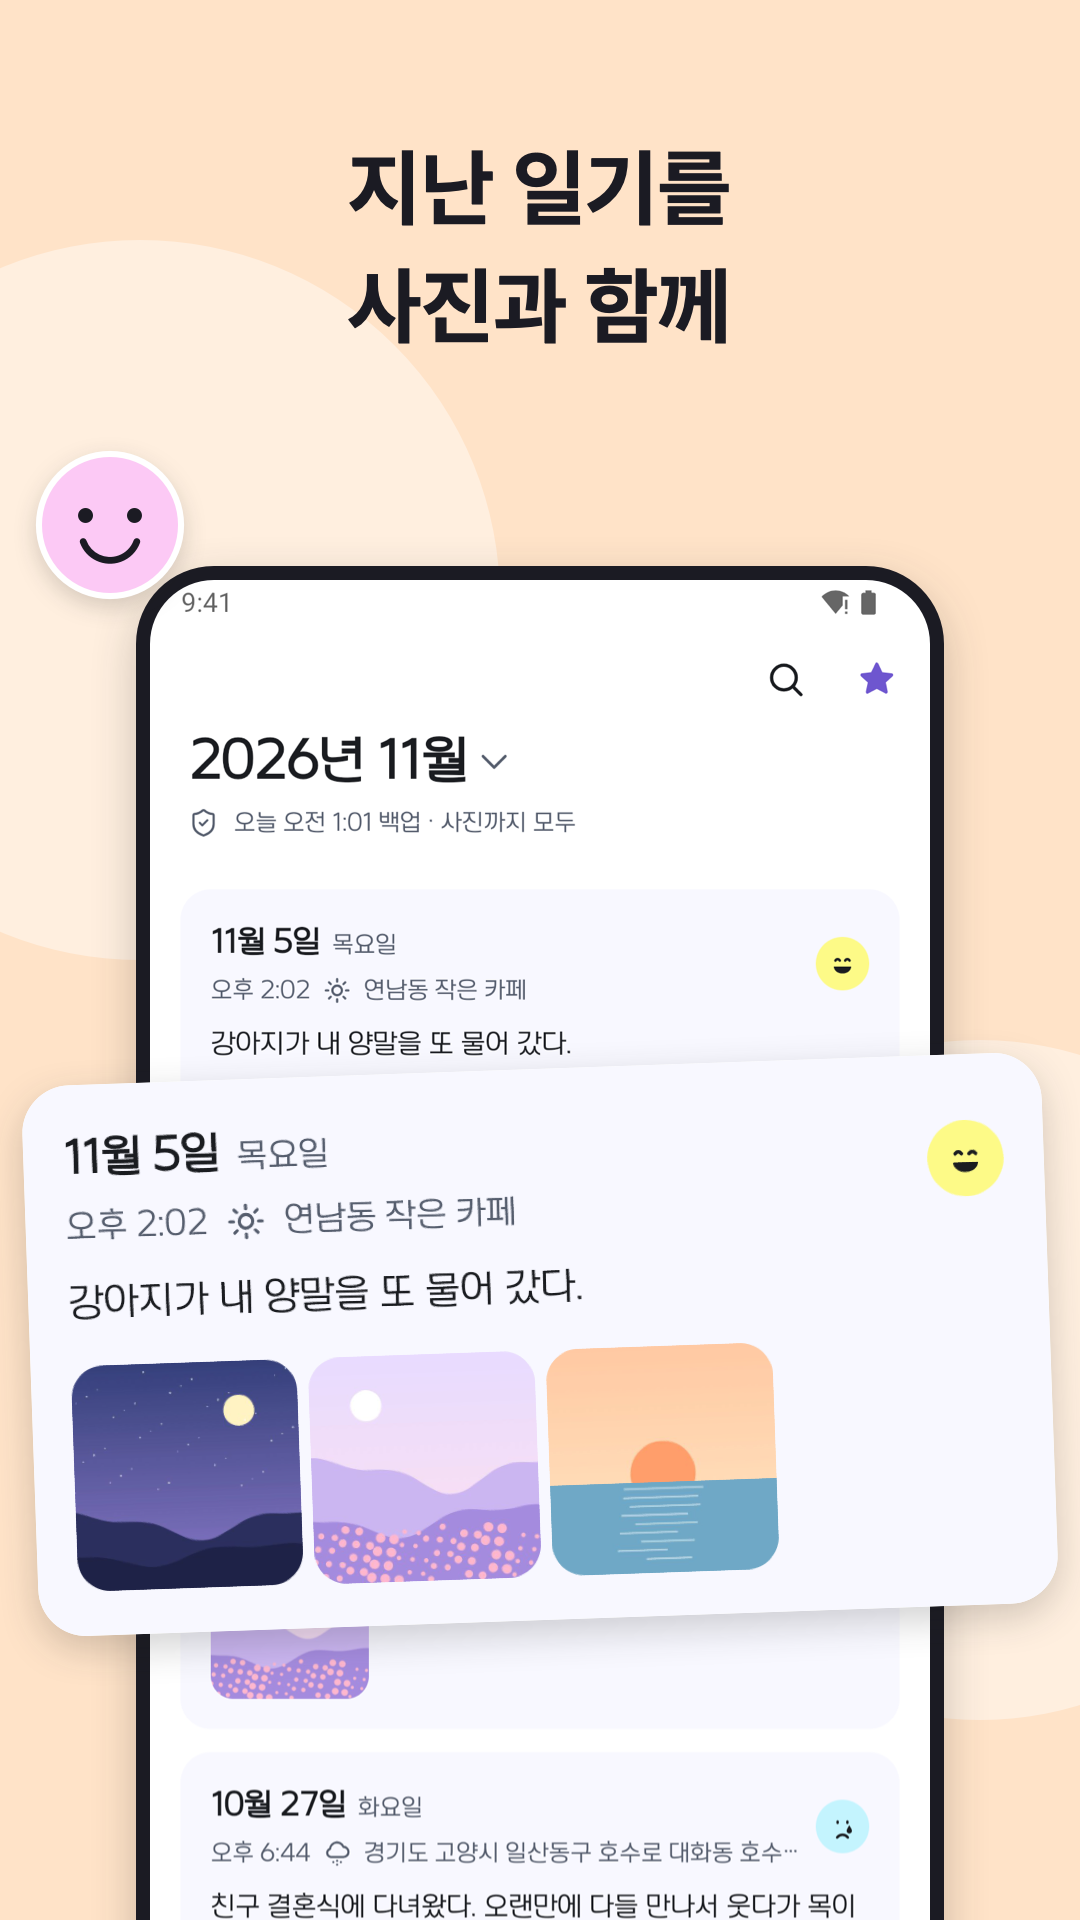
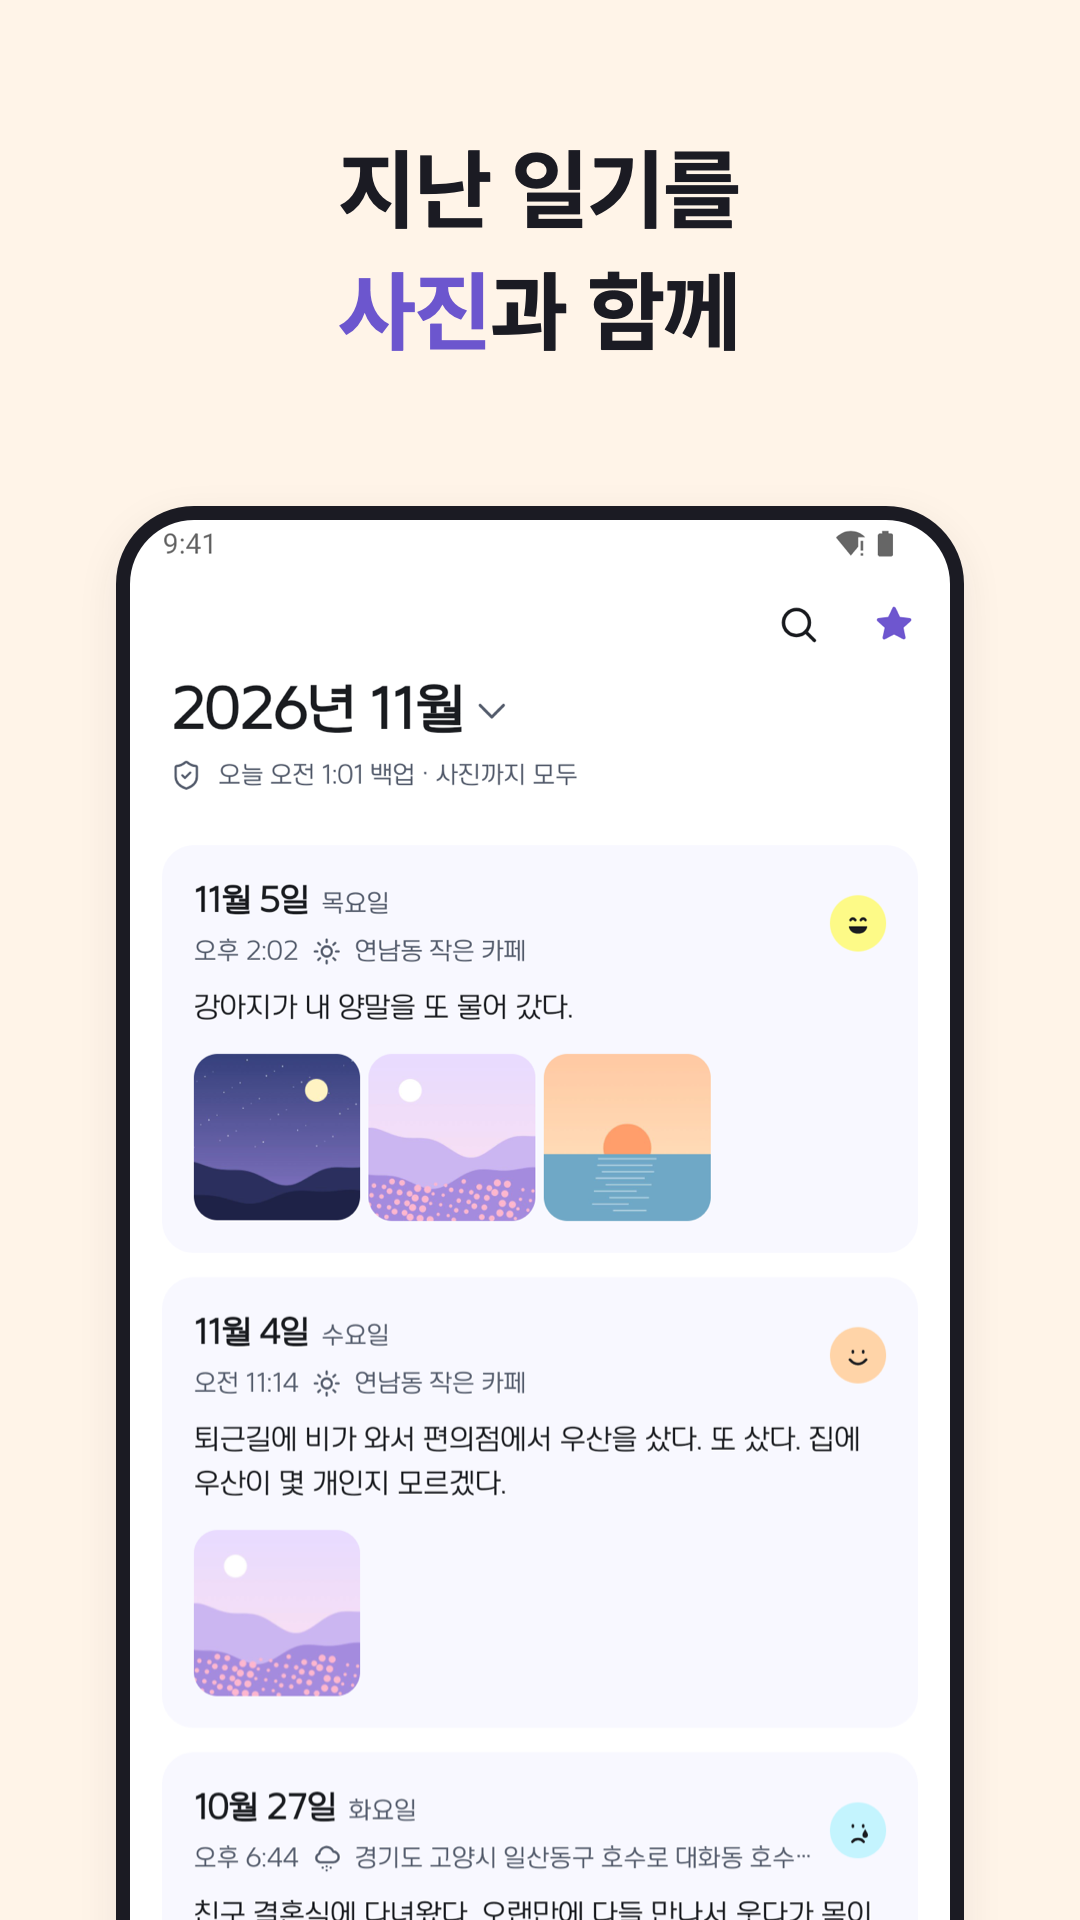
docs(release): 스토어 이미지를 단정한 구성으로 다시 만들기
도형과 얼굴, 기울인 카드가 많아 정신없고 읽기 어려웠다.
옅은 바탕과 큰 제목, 곧게 놓은 실제 화면만 두고 강조는 낱말 하나로
줄였다. 피처 그래픽에서는 기기 틀을 뺐다.

diff --git a/scripts/store/make_screens.swift b/scripts/store/make_screens.swift
@@ -36,12 +36,16 @@ func canvas(_ width: Int, _ height: Int, _ draw: () -> Void) -> NSBitmapImageRep
     return NSBitmapImageRep(cgImage: context.makeImage()!)
 }
 
-func text(_ string: String, _ size: CGFloat, _ weight: String, _ tint: NSColor, _ rect: NSRect, _ align: NSTextAlignment) {
+func text(_ string: String, _ size: CGFloat, _ weight: String, _ tint: NSColor, _ rect: NSRect, _ align: NSTextAlignment, accented: String? = nil) {
     let style = NSMutableParagraphStyle()
     style.alignment = align
-    style.lineHeightMultiple = 1.18
+    style.lineHeightMultiple = 1.16
     let font = NSFont(name: "Pretendard-\(weight)", size: size) ?? NSFont.boldSystemFont(ofSize: size)
-    NSAttributedString(string: string, attributes: [.font: font, .foregroundColor: tint, .paragraphStyle: style]).draw(in: rect)
+    let label = NSMutableAttributedString(string: string, attributes: [.font: font, .foregroundColor: tint, .paragraphStyle: style])
+    if let accented, let range = string.range(of: accented) {
+        label.addAttribute(.foregroundColor, value: accent, range: NSRange(range, in: string))
+    }
+    label.draw(in: rect)
 }
 
 func shot(_ name: String) -> NSImage { NSImage(contentsOfFile: "\(source)/\(name).png")! }
@@ -58,12 +62,12 @@ func shadowed(_ alpha: CGFloat, _ blur: CGFloat, _ body: () -> Void) {
 }
 
 /** 기기 틀 안의 실제 앱 화면. 아래는 화면 밖으로 잘린다. */
-func phone(_ name: String, _ rect: NSRect, _ radius: CGFloat) {
-    let frame = rect.insetBy(dx: -14, dy: -14)
-    let bezel = NSBezierPath(roundedRect: frame, xRadius: radius + 14, yRadius: radius + 14)
-    shadowed(0.22, 48) {
-        ink.setFill()
-        bezel.fill()
+func phone(_ name: String, _ rect: NSRect, _ radius: CGFloat, bezel: Bool = true) {
+    let frame = bezel ? rect.insetBy(dx: -14, dy: -14) : rect
+    let outer = radius + (bezel ? 14 : 0)
+    shadowed(0.08, 40) {
+        (bezel ? ink : NSColor.white).setFill()
+        NSBezierPath(roundedRect: frame, xRadius: outer, yRadius: outer).fill()
     }
     NSGraphicsContext.saveGraphicsState()
     NSBezierPath(roundedRect: rect, xRadius: radius, yRadius: radius).addClip()
@@ -73,137 +77,35 @@ func phone(_ name: String, _ rect: NSRect, _ radius: CGFloat) {
     NSGraphicsContext.restoreGraphicsState()
 }
 
-/** 화면의 한 조각을 카드로 크게 꺼낸다. [area]는 캡처 좌표(위가 0)다. */
-func lifted(_ name: String, _ area: NSRect, _ rect: NSRect, _ radius: CGFloat, _ angle: CGFloat = 0) {
-    NSGraphicsContext.saveGraphicsState()
-    let turn = NSAffineTransform()
-    turn.translateX(by: rect.midX, yBy: rect.midY)
-    turn.rotate(byDegrees: angle)
-    turn.translateX(by: -rect.midX, yBy: -rect.midY)
-    turn.concat()
-    let path = NSBezierPath(roundedRect: rect, xRadius: radius, yRadius: radius)
-    shadowed(0.2, 40) {
-        NSColor.white.setFill()
-        path.fill()
-    }
-    path.addClip()
-    let image = shot(name)
-    let from = NSRect(x: area.minX, y: image.size.height - area.maxY, width: area.width, height: area.height)
-    image.draw(in: rect, from: from, operation: .sourceOver, fraction: 1)
-    NSGraphicsContext.restoreGraphicsState()
-}
-
-/** 바탕에 크게 놓는 둥근 덩어리. */
-func blob(_ tint: NSColor, _ x: CGFloat, _ y: CGFloat, _ width: CGFloat, _ height: CGFloat) {
-    tint.setFill()
-    NSBezierPath(ovalIn: NSRect(x: x, y: y, width: width, height: height)).fill()
-}
-
-enum Mood { case smile, laugh, wink }
-
-/** 앱의 기분 얼굴을 닮은 스티커. 흰 테두리로 바탕에서 띄운다. */
-func face(_ tint: NSColor, _ x: CGFloat, _ y: CGFloat, _ r: CGFloat, _ mood: Mood = .smile) {
-    shadowed(0.18, r * 0.35) {
-        NSColor.white.setFill()
-        NSBezierPath(ovalIn: NSRect(x: x - r - r * 0.09, y: y - r - r * 0.09, width: (r * 1.09) * 2, height: (r * 1.09) * 2)).fill()
-    }
-    tint.setFill()
-    NSBezierPath(ovalIn: NSRect(x: x - r, y: y - r, width: r * 2, height: r * 2)).fill()
-    ink.setFill()
-    ink.setStroke()
-    let eye = r * 0.11
-    let line = NSBezierPath()
-    line.lineWidth = r * 0.1
-    line.lineCapStyle = .round
-    switch mood {
-    case .laugh:
-        for side: CGFloat in [-1, 1] {
-            line.appendArc(withCenter: NSPoint(x: x + side * r * 0.36, y: y + r * 0.08), radius: r * 0.17, startAngle: 20, endAngle: 160)
-            line.move(to: NSPoint(x: x, y: y))
-        }
-    default:
-        NSBezierPath(ovalIn: NSRect(x: x - r * 0.36 - eye, y: y + r * 0.14 - eye, width: eye * 2, height: eye * 2)).fill()
-        NSBezierPath(ovalIn: NSRect(x: x + r * 0.36 - eye, y: y + r * 0.14 - eye, width: eye * 2, height: eye * 2)).fill()
-    }
-    line.removeAllPoints()
-    if mood == .laugh {
-        for side: CGFloat in [-1, 1] {
-            let arc = NSBezierPath()
-            arc.lineWidth = r * 0.1
-            arc.lineCapStyle = .round
-            arc.appendArc(withCenter: NSPoint(x: x + side * r * 0.36, y: y + r * 0.06), radius: r * 0.17, startAngle: 20, endAngle: 160)
-            arc.stroke()
-        }
-    }
-    line.appendArc(withCenter: NSPoint(x: x, y: y - r * 0.1), radius: r * 0.42, startAngle: 200, endAngle: 340)
-    line.stroke()
-}
-
 func save(_ rep: NSBitmapImageRep, _ name: String) {
     try! rep.representation(using: .png, properties: [:])!.write(to: URL(fileURLWithPath: "\(output)/\(name).png"))
 }
 
-let sky = color(0xB8E8FF), yellow = color(0xFFF68A), peach = color(0xFFD4A8)
-let pink = color(0xFCC9F5), mint = color(0xB8EDC0), lavender = color(0xD9CFFF)
-
-func title(_ words: String) {
-    text(words, 84, "Bold", ink, NSRect(x: 40, y: 1480, width: 1000, height: 320), .center)
-}
-
-func slide(_ tint: NSColor, _ name: String, _ words: String, _ extra: () -> Void) -> NSBitmapImageRep {
-    background = tint
-    return canvas(1080, 1920) {
-        blob(NSColor(white: 1, alpha: 0.42), -220, 960, 720, 720)
-        blob(NSColor(white: 1, alpha: 0.42), 640, 200, 680, 680)
-        title(words)
-        phone(name, NSRect(x: 150, y: -520, width: 780, height: 1860), 64)
-        extra()
+// 기준: 심플하고 미감 있고 잘 읽혀야 한다.
+// 옅은 바탕, 큰 제목, 곧게 놓은 실제 화면만 둔다.
+// 장식과 기울임을 넣지 않고 강조는 낱말 하나만 쓴다(2026-11-07 사용자 지적).
+let slides: [(UInt32, String, String, String)] = [
+    (0xF3F0FF, "w1", "바쁜 날에도\n일기를 남겨요", "일기"),
+    (0xEAF6FF, "b1", "사진까지\n내 드라이브에", "내 드라이브"),
+    (0xFFFAE5, "c1", "한 달 기분을\n달력으로", "달력"),
+    (0xFFF1F9, "l1", "내 일기는\n나만 보게", "나만"),
+    (0xEDFAF1, "f1", "글꼴 10종에서\n골라 써요", "10종"),
+    (0xFFF4E8, "h1", "지난 일기를\n사진과 함께", "사진")
+]
+for (index, (tint, name, words, word)) in slides.enumerated() {
+    background = color(tint)
+    let rep = canvas(1080, 1920) {
+        text(words, 88, "Bold", ink, NSRect(x: 40, y: 1500, width: 1000, height: 300), .center, accented: word)
+        phone(name, NSRect(x: 130, y: -560, width: 820, height: 1960), 64)
     }
+    save(rep, "phone-\(index + 1)")
 }
 
-save(slide(lavender, "w1", "바쁜 날에도\n일기를 남겨요") {
-    lifted("w1", NSRect(x: 30, y: 345, width: 660, height: 210), NSRect(x: 130, y: 560, width: 820, height: 261), 44, -2)
-    face(yellow, 120, 1380, 88, .laugh)
-    face(peach, 960, 1420, 74)
-    face(pink, 985, 1040, 54)
-}, "phone-1")
-
-save(slide(sky, "b1", "사진까지\n내 드라이브에") {
-    lifted("b1", NSRect(x: 50, y: 252, width: 980, height: 230), NSRect(x: 40, y: 760, width: 1000, height: 235), 40, 1.5)
-    face(mint, 112, 1395, 70)
-}, "phone-2")
-
-save(slide(yellow.blended(withFraction: 0.45, of: .white)!, "c1", "한 달 기분을\n달력으로") {
-    lifted("c1", NSRect(x: 30, y: 418, width: 1020, height: 140), NSRect(x: 30, y: 700, width: 1020, height: 140), 36, -1.5)
-    face(peach, 980, 1390, 80, .laugh)
-    face(sky, 104, 1400, 62)
-}, "phone-3")
-
-save(slide(pink.blended(withFraction: 0.35, of: .white)!, "l1", "내 일기는\n나만 보게") {
-    face(lavender, 985, 1400, 72)
-    face(mint, 98, 1040, 56)
-}, "phone-4")
-
-save(slide(mint.blended(withFraction: 0.35, of: .white)!, "f1", "글꼴 10종에서\n골라 써요") {
-    lifted("f1", NSRect(x: 50, y: 254, width: 980, height: 237), NSRect(x: 30, y: 880, width: 1020, height: 247), 44, -2)
-    face(yellow, 975, 1395, 76, .laugh)
-}, "phone-5")
-
-save(slide(peach.blended(withFraction: 0.35, of: .white)!, "h1", "지난 일기를\n사진과 함께") {
-    lifted("h1", NSRect(x: 45, y: 430, width: 990, height: 535), NSRect(x: 30, y: 300, width: 1020, height: 551), 48, 2)
-    face(pink, 110, 1395, 68)
-}, "phone-6")
-
-background = lavender
+background = color(0xF3F0FF)
 let feature = canvas(1024, 500) {
-    blob(sky, 560, 230, 420, 420)
-    blob(yellow, 800, -120, 340, 340)
-    blob(pink, 470, -170, 300, 300)
-    text("바쁜 날에도\n일기를 남겨요", 60, "Bold", ink, NSRect(x: 64, y: 180, width: 500, height: 180), .left)
-    text("회원가입 없이, 사진까지 내 드라이브에", 25, "Medium", weak, NSRect(x: 64, y: 122, width: 500, height: 44), .left)
-    lifted("h1", NSRect(x: 45, y: 430, width: 990, height: 535), NSRect(x: 560, y: 110, width: 400, height: 216), 28, -3)
-    face(yellow, 560, 390, 56, .laugh)
-    face(mint, 900, 410, 44)
-    face(peach, 980, 110, 36)
+    text("바쁜 날에도\n일기를 남겨요", 60, "Bold", ink, NSRect(x: 76, y: 176, width: 500, height: 170), .left, accented: "일기")
+    text("회원가입 없이, 사진까지 내 드라이브에", 25, "Medium", weak, NSRect(x: 76, y: 118, width: 500, height: 44), .left)
+    // 피처 그래픽에는 기기 틀을 넣지 않는다(Play 안내).
+    phone("h1", NSRect(x: 640, y: -640, width: 300, height: 1040), 26, bezel: false)
 }
 save(feature, "feature")

diff --git a/docs/release.md b/docs/release.md
@@ -60,7 +60,7 @@ Play는 기존 앱 업데이트, App Store는 새 출시다. 조사일 2026-10-3
 7. 태블릿에서 넓게(목록·상세 두 칸, 아직 찍지 않음)
 
 폰 6장과 피처 그래픽은 `docs/store/screens/`에 있고 문구는 `docs/store/listing.md`에 있다(2026-11-07).
-장마다 앱의 기분 색을 바탕으로 쓰고, 화면 조각을 크게 꺼내고 기분 얼굴을 띄운다. 당근의 큰 브랜드 도형, Day One의 장별 색, 하루콩의 띄운 카드에서 가져왔다(각 앱의 Play 페이지).
+기준은 심플, 미감, 가독성이다. 옅은 바탕, 큰 제목, 곧게 놓은 실제 화면만 둔다. 장마다 바탕 톤만 바꾸고 강조는 낱말 하나다. 도형, 스티커, 기울인 카드는 넣지 않는다(2026-11-07 사용자 지적).
 
 ## 소개 문구
 
